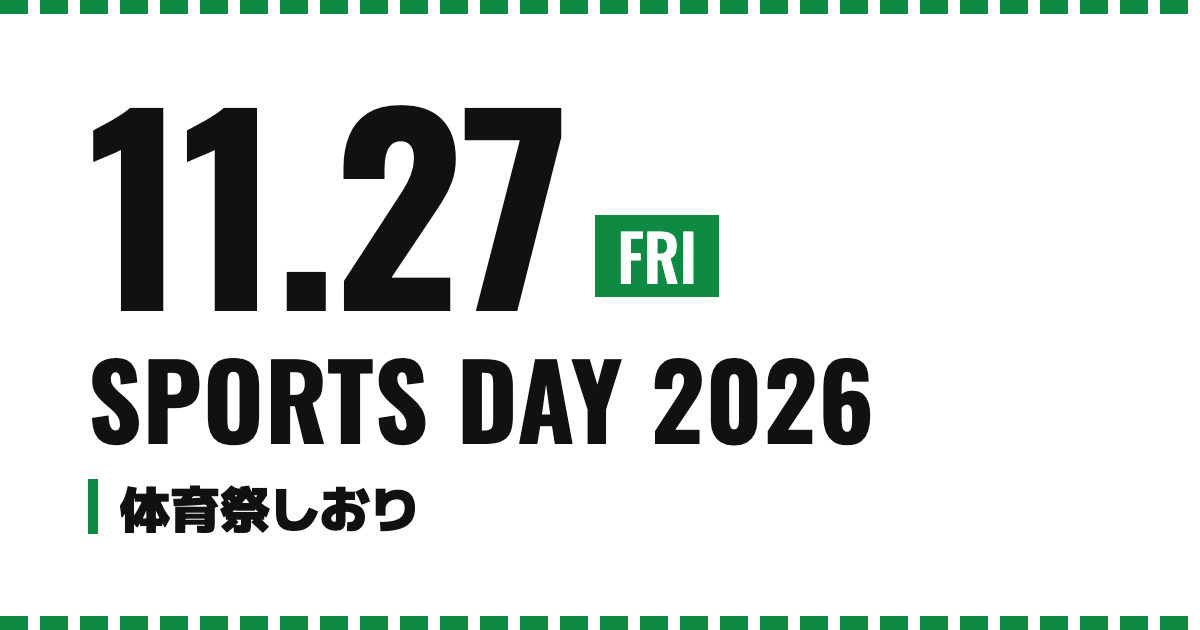
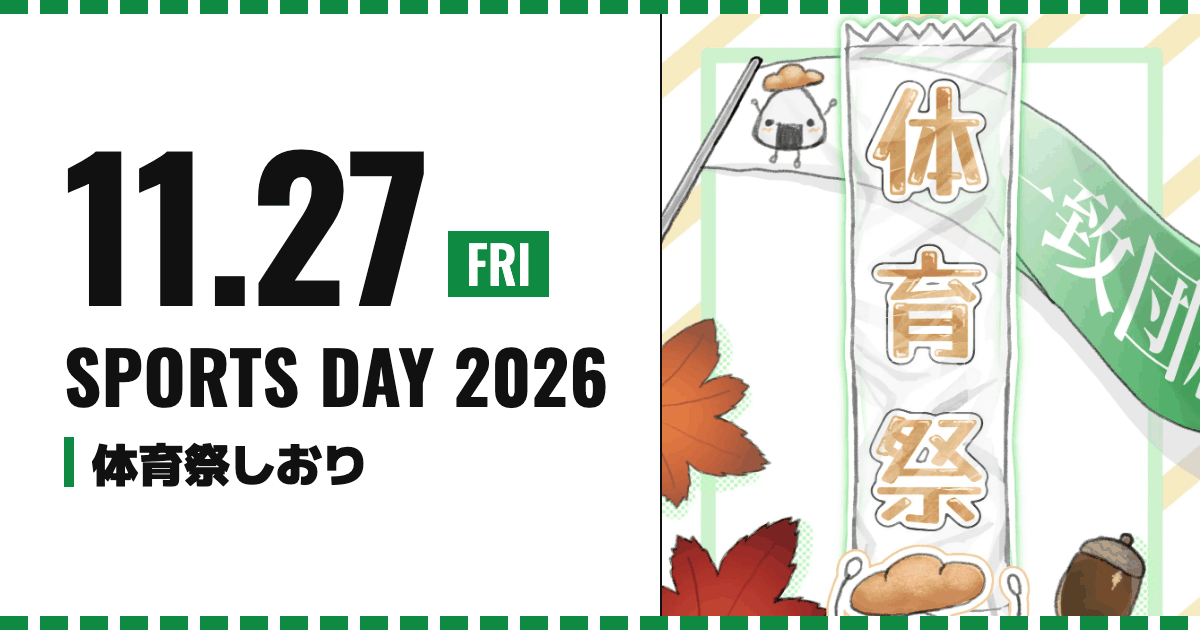
当日に向けた準備:遅れ対応・OGP画像・見本のメモ削除(v13)
- content.js の一番上に DELAY_MIN(当日の遅れ・分)。タイムテーブル・競技説明の時刻と「いまここ」を全部その分ずらし、「※いま、予定より約15分遅れて進んでいます」を出す
- OGP画像を表紙のイラスト入りに作り直す(1200×630、約126KB)
- タイムテーブルの下の「※時刻・プログラムは仮…」を削除(?time の時の表示だけ残す)
- README に「当日の時間調整」

diff --git a/js/main.js b/js/main.js
@@ -20,6 +20,21 @@ const toMinutes = (hm) => {
 const pad = (n, len = 2) => String(n).padStart(len, '0');
 const $ = (id) => document.getElementById(id);
 
+// 当日の遅れ(content.js の DELAY_MIN)。プログラムの時刻を最初に全部ずらしておく
+// タイムテーブル・競技説明の時刻、「いまここ」の判定(?time も)・キャラの位置は、ずらした時刻を使う
+const DELAY = Number(CONTENT.timetable.delayMin) || 0;
+const shiftTime = (hm) => {
+  const t = toMinutes(hm) + DELAY;
+  return `${Math.floor(t / 60)}:${pad(t % 60)}`;
+};
+if (DELAY !== 0) {
+  CONTENT.timetable.program = CONTENT.timetable.program.map((p) => ({
+    ...p,
+    start: shiftTime(p.start),
+    end: p.end && shiftTime(p.end),
+  }));
+}
+
 // 文字は必ずここを通して入れる(textContent なのでタグは効かない)。\n は改行になる
 function setText(node, text) {
   node.textContent = text;
@@ -618,7 +633,12 @@ function renderTimetable() {
   runner.classList.toggle('is-waiting', now.phase === 'before');
   setRunnerRunning(nowIndex >= 0);
 
+  // 遅れている時だけ「※いま、予定より約15分遅れて進んでいます」
+  setOptionalText($('now-delay'),
+    DELAY === 0 ? '' : `※いま、予定より約${Math.abs(DELAY)}分${DELAY > 0 ? '遅れて' : '早く'}進んでいます`);
+
   if (now.isTest) {
+    $('now-note').hidden = false;
     setText($('now-note'),
       `※テスト表示中:${MD} ${Math.floor(now.minutes / 60)}:${pad(now.minutes % 60)} として表示しています`);
   }
@@ -657,7 +677,7 @@ const CHECK_LABELS = {
   site: '表紙', name: '名前', slogan: 'スローガン', venue: '会場', date: '日付',
   coverImage: '表紙イラスト', closingImage: '裏表紙イラスト', fallback: '予備の画像(JPG)', places: '施設案内', mapImage: '簡易マップ', list: '場所',
   text: '説明', timetable: 'タイムテーブル', start: '開始時刻', end: '終了時刻',
-  program: 'プログラム', label: '名前', runnerFrames: '走るキャラのコマ', events: '競技',
+  program: 'プログラム', delayMin: '遅れ(分)', label: '名前', runnerFrames: '走るキャラのコマ', events: '競技',
   campus: 'キャンパスの色', campusColors: 'キャンパスの色', category: 'ガチ/ゆる', summary: 'ひとこと', rules: 'ルール', rulesNumbered: 'ルールの番号',
   highlight: '見どころ', qa: 'Q&A', q: '質問', a: '答え', eventsEmptyText: '説明が空の競技に出る文',
   image: '画像', others: 'ほかの企画',

diff --git a/js/content.js b/js/content.js
@@ -10,6 +10,12 @@
        1件ずつ { ... }, の形でコピーして増やす(最後の , は付けたままでOK)
    ========================================================= */
 
+/* ★★★ 当日、時間がずれたらここの数字だけ変える ★★★
+   予定より遅れている(押している)分を「分」で書く。15分遅れなら 15、10分早く進んでいたら -10、予定どおりなら 0
+   タイムテーブル・競技説明の時刻と「いまここ」が全部この分だけずれて、「予定より約15分遅れて進んでいます」と出る
+   書き換えてから公開URLに出るまで1〜2分かかる(README の「当日の時間調整」) */
+const DELAY_MIN = 0;
+
 const CONTENT = {
 
   /* ---------- 表紙・サイト全体 ---------- */
@@ -45,11 +51,13 @@ const CONTENT = {
   /* ---------- 02 タイムテーブル ---------- */
   // program が空だと、タイムテーブルのセクションごと消える
   timetable: {
+    // 遅れ(分)。ファイルの一番上の DELAY_MIN をそのまま使う(ここは書き換えない)
+    delayMin: DELAY_MIN,
     // プログラム。時刻の早い順に並べる。start = 始まる時刻、end = 終わる時刻('時:分')、label = プログラム名
     // 表示は「10:00〜10:30」の形。今の時刻が start〜end の間の行に「NOW」がつく
     // どの行にも入らない時間(すき間)は「次は〇〇」と出る
     // キャラが走るのは、最初の行の start(START)〜最後の行の end(GOAL)。それ以降は「おつかれさま」
-    // ※時刻・プログラムは仮(変わる可能性あり)
+    // ※ここには「予定の時刻」を書く。当日の遅れはファイルの一番上の DELAY_MIN で調整する
     program: [
       { start: '10:00', end: '10:30', label: '生徒入室' },
       { start: '10:30', end: '11:00', label: '開式' },

diff --git a/index.html b/index.html
@@ -111,6 +111,8 @@
         <span class="eyebrow eyebrow--flat">NOW RUNNING</span>
         <span class="now__label" id="now-label" aria-live="polite">読み込み中…</span>
       </div>
+      <!-- 当日の遅れ(content.js の DELAY_MIN)が0でない時だけ出る -->
+      <p class="now__delay" id="now-delay" hidden></p>
       <div class="track">
         <div class="track__lane" aria-hidden="true"></div>
         <svg class="track__goal" viewBox="0 0 20 28" aria-hidden="true">
@@ -122,7 +124,8 @@
       </div>
       <div class="track__ends"><span>START</span><span>GOAL</span></div>
     </div>
-    <p class="note" id="now-note">※時刻・プログラムは仮。当日は実際の時刻で自動的に動く</p>
+    <!-- ?time= で確認している時だけ出る -->
+    <p class="note" id="now-note" hidden></p>
 
     <ol class="program" id="program"></ol>
   </section>

diff --git a/css/style.css b/css/style.css
@@ -478,6 +478,7 @@ p { margin: 0; }
   gap: 12px;
 }
 .now__label { font-weight: 700; }
+.now__delay { font-size: 13px; font-weight: 700; color: var(--c-ink); }
 
 /* トラック = 緑の帯 + キャラ + ゴール旗 */
 .track {

diff --git a/README.md b/README.md
@@ -7,6 +7,22 @@
 
 ---
 
+## 0. 当日の時間調整(プログラムが押した・早まった時)
+
+**`js/content.js` の17行目 `const DELAY_MIN = 0;` の数字だけ**を書き換える(ファイルの一番上、「★★★ 当日、時間がずれたらここの数字だけ変える ★★★」のすぐ下)。
+
+| こうなった時 | 書き換え後 |
+| --- | --- |
+| 15分遅れている(押している) | `const DELAY_MIN = 15;` |
+| 10分早く進んでいる | `const DELAY_MIN = -10;` |
+| 予定どおりに戻った | `const DELAY_MIN = 0;` |
+
+- タイムテーブル・競技説明の時刻、「いまここ」(NOWの行・キャラの位置)が全部その分ずれる。タイムテーブルの上に「※いま、予定より約15分遅れて進んでいます」と出る(0の時は出ない)
+- `timetable.program` の時刻(予定の時刻)は書き換えない
+- スマホからの書き換え方:GitHub のアプリかブラウザで `kuro-83/sports-festival-2026` → `js` → `content.js` を開く → えんぴつ(Edit)→ 17行目の数字だけ変える → 「Commit changes」
+- 書き換えてから公開URLに出るまで **1〜2分** かかる。見る人のスマホには、ページを開き直した時(または次に開いた時)に出る
+- 数字以外(`;` や `const` など)を消すとページが動かなくなるので、数字だけ変える。書き換えた後に公開URLを開いて、タイムテーブルの時刻がずれているか確認する
+
 ## 1. 情報が来たら、ここを書き換える
 
 `js/content.js` を開くと、上から順にページの並びと同じ順で項目が並んでいる。
@@ -37,6 +53,7 @@
 - どの行にも入らない時間(すき間)は「次は〇〇(12:20から)」、最初の行より前は「まだ始まってないよ」と出る
 - キャラが走るのは、最初の行の start 〜 最後の行の end。最後の行の end を過ぎると「おつかれさま」
 - `end` を空にした行は、次の行の start までとして扱う(最後の行は `end` を必ず書く)
+- ここには**予定の時刻**を書く。当日の遅れは上の「0. 当日の時間調整」(`DELAY_MIN`)で調整する
 
 ### 競技説明 … `events`
 最初は「時刻・ガチ/ゆる・競技名」の一覧だけが出て、タップするとその競技の説明が開く(もう一度タップで閉じる)。上から順(タイムテーブルの順)に並ぶ。1競技ごとの項目:
@@ -121,7 +138,7 @@ LINEやSNSでURLを送った時のタイトル・説明・画像は、`content.j
 
 **画像を差し替える時**
 - 共有時の画像: `img/ogp.png` を同じ名前で上書きする(**1200×630px**、PNG、300KB以下がおすすめ。文字はスマホで小さく出ても読める大きさに)
-  - 今のは仮の画像。作り方(元のHTML)は手元の `reference/ogp/` にある(公開はしない)
+  - 今のは、左に「11.27 FRI」「SPORTS DAY 2026」「体育祭しおり」、右に表紙のイラストの上の方を入れた画像(約126KB)。作り方は手元の `reference/ogp/`(`ogp.html` を `make.sh` で撮る。公開はしない)
 - アイコン: `favicon.svg`(タブのアイコン)、`favicon-32.png`(32×32、SVGが使えないブラウザ用)、`apple-touch-icon.png`(180×180、iPhoneのホーム画面用)を同じ名前で上書きする
 - LINEはプレビューを長め(数日〜)覚えているので、先にURLを送っていた場合は、差し替えてもすぐには変わらないことがある
 
